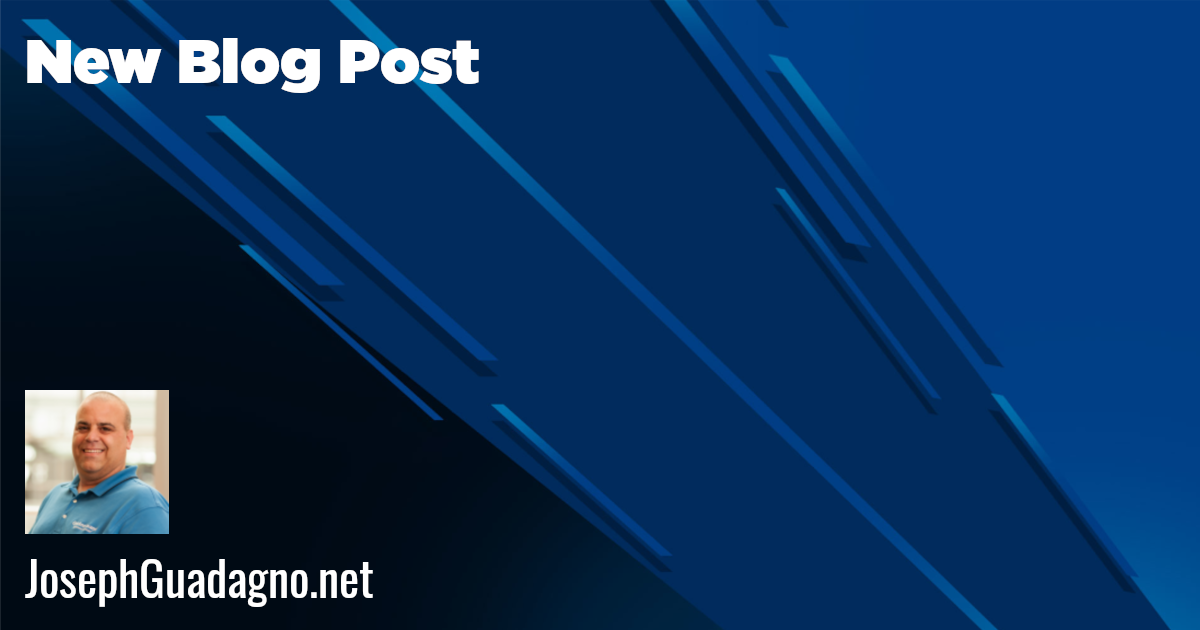
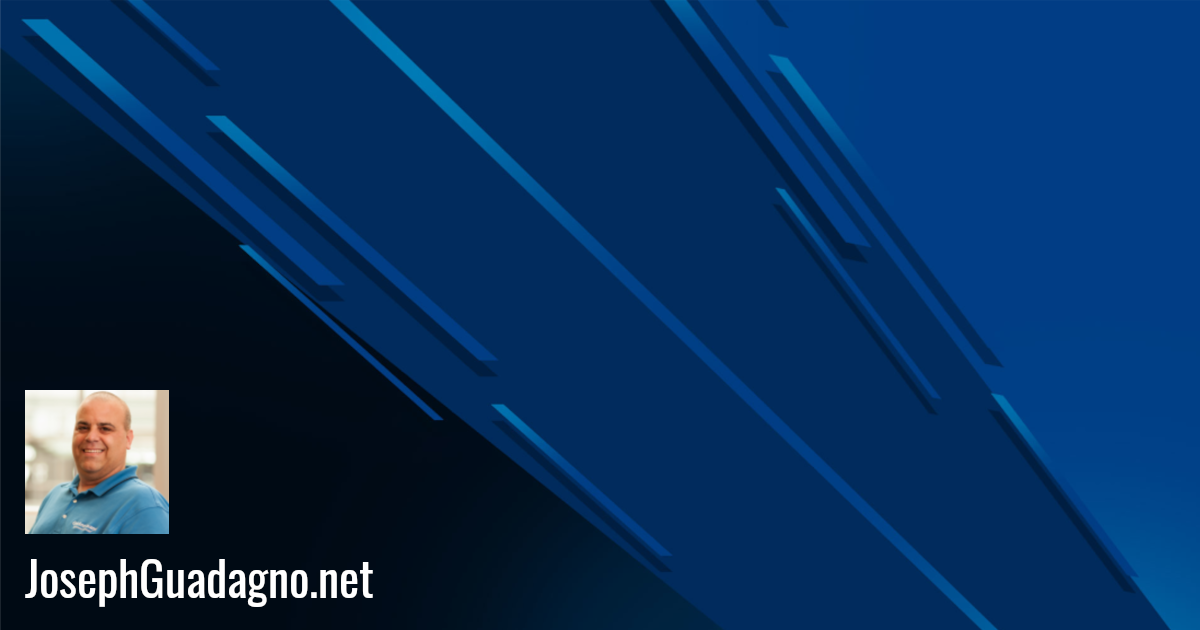
Added new OG images

Changed region(s): [[0.0, 0.0603, 0.4008, 0.1508]]

diff --git a/_pages/about-joseph-guadagno.md b/_pages/about-joseph-guadagno.md
@@ -2,6 +2,8 @@
 title: About Joseph Guadagno
 permalink: /about-joseph-guadagno/
 classes: wide
+header:
+    og_image: /assets/images/pages/about-joseph-guadagno.png
 ---
 Joe Guadagno is a Director of Engineering at Quicken Loans, the nation’s largest mortgage lender based in Detroit, Michigan. He has been writing software for over 20 years, has been an active member of the .NET community, serving as a Microsoft MVP in .NET for more than ten years. At Quicken Loans, he leads three software development teams building and modernizing our internal services. He has spoken through the United States and international events on topics ranging from Microsoft .NET, Microsoft Azure, Ionic, Bootstrap, and many others. You can see the complete list at [https://www.josephguadagno.net/presentations]({% link _pages/presentations.md %}){:target="_blank"}. When not sitting at a computer, Joe loves to hang out with his family and play games. When not playing games with the family, Joe is checking out the latest in Home Automation. You can connect with Joe on Twitter at [@jguadagno](https://www.twitter.com/jguadagno){:target="_blank"}, Facebook at [JosephGuadagnoNet](https://www.facebook.com/JosephGuadagnoNet/){:target="_blank"}, and on his blog at [https://www.josephguadagno.net](/)
 

diff --git a/_pages/speaking-engagements.md b/_pages/speaking-engagements.md
@@ -1,6 +1,8 @@
 ---
 title: Speaking Engagements
 permalink: /speaking-engagements/
+header:
+    og_image: /assets/images/pages/speaking-engagements.png
 ---
 If you would like for me to speak at your event please [contact me]({% link _pages/contact.md %}).
 {: .notice--info}

diff --git a/_pages/presentations.md b/_pages/presentations.md
@@ -1,6 +1,8 @@
 ---
 title: Presentations
 permalink: /presentations/
+header:
+    og_image: /assets/images/pages/presentations.png
 ---
 If you would like for me to speak at your event, please [contact me]({% link _pages/contact.md %}).
 {: .notice--info}

diff --git a/_pages/resume.md b/_pages/resume.md
@@ -4,6 +4,8 @@ excerpt: 'For 20 years or so I have been in Software Development. During that ti
 dsq_thread_id:
   - "3566993251"
 permalink: /resume/
+header:
+    og_image: /assets/images/pages/resume.png
 ---
 ## Joseph Guadagno
 

diff --git a/_pages/contact.md b/_pages/contact.md
@@ -4,6 +4,8 @@ date: 2015-03-04T17:55:54+00:00
 dsq_thread_id:
   - "3567222452"
 permalink: /contact/
+header:
+    og_image: /assets/images/pages/contact.png
 ---
 I'll answer your email as soon as I can.
 
